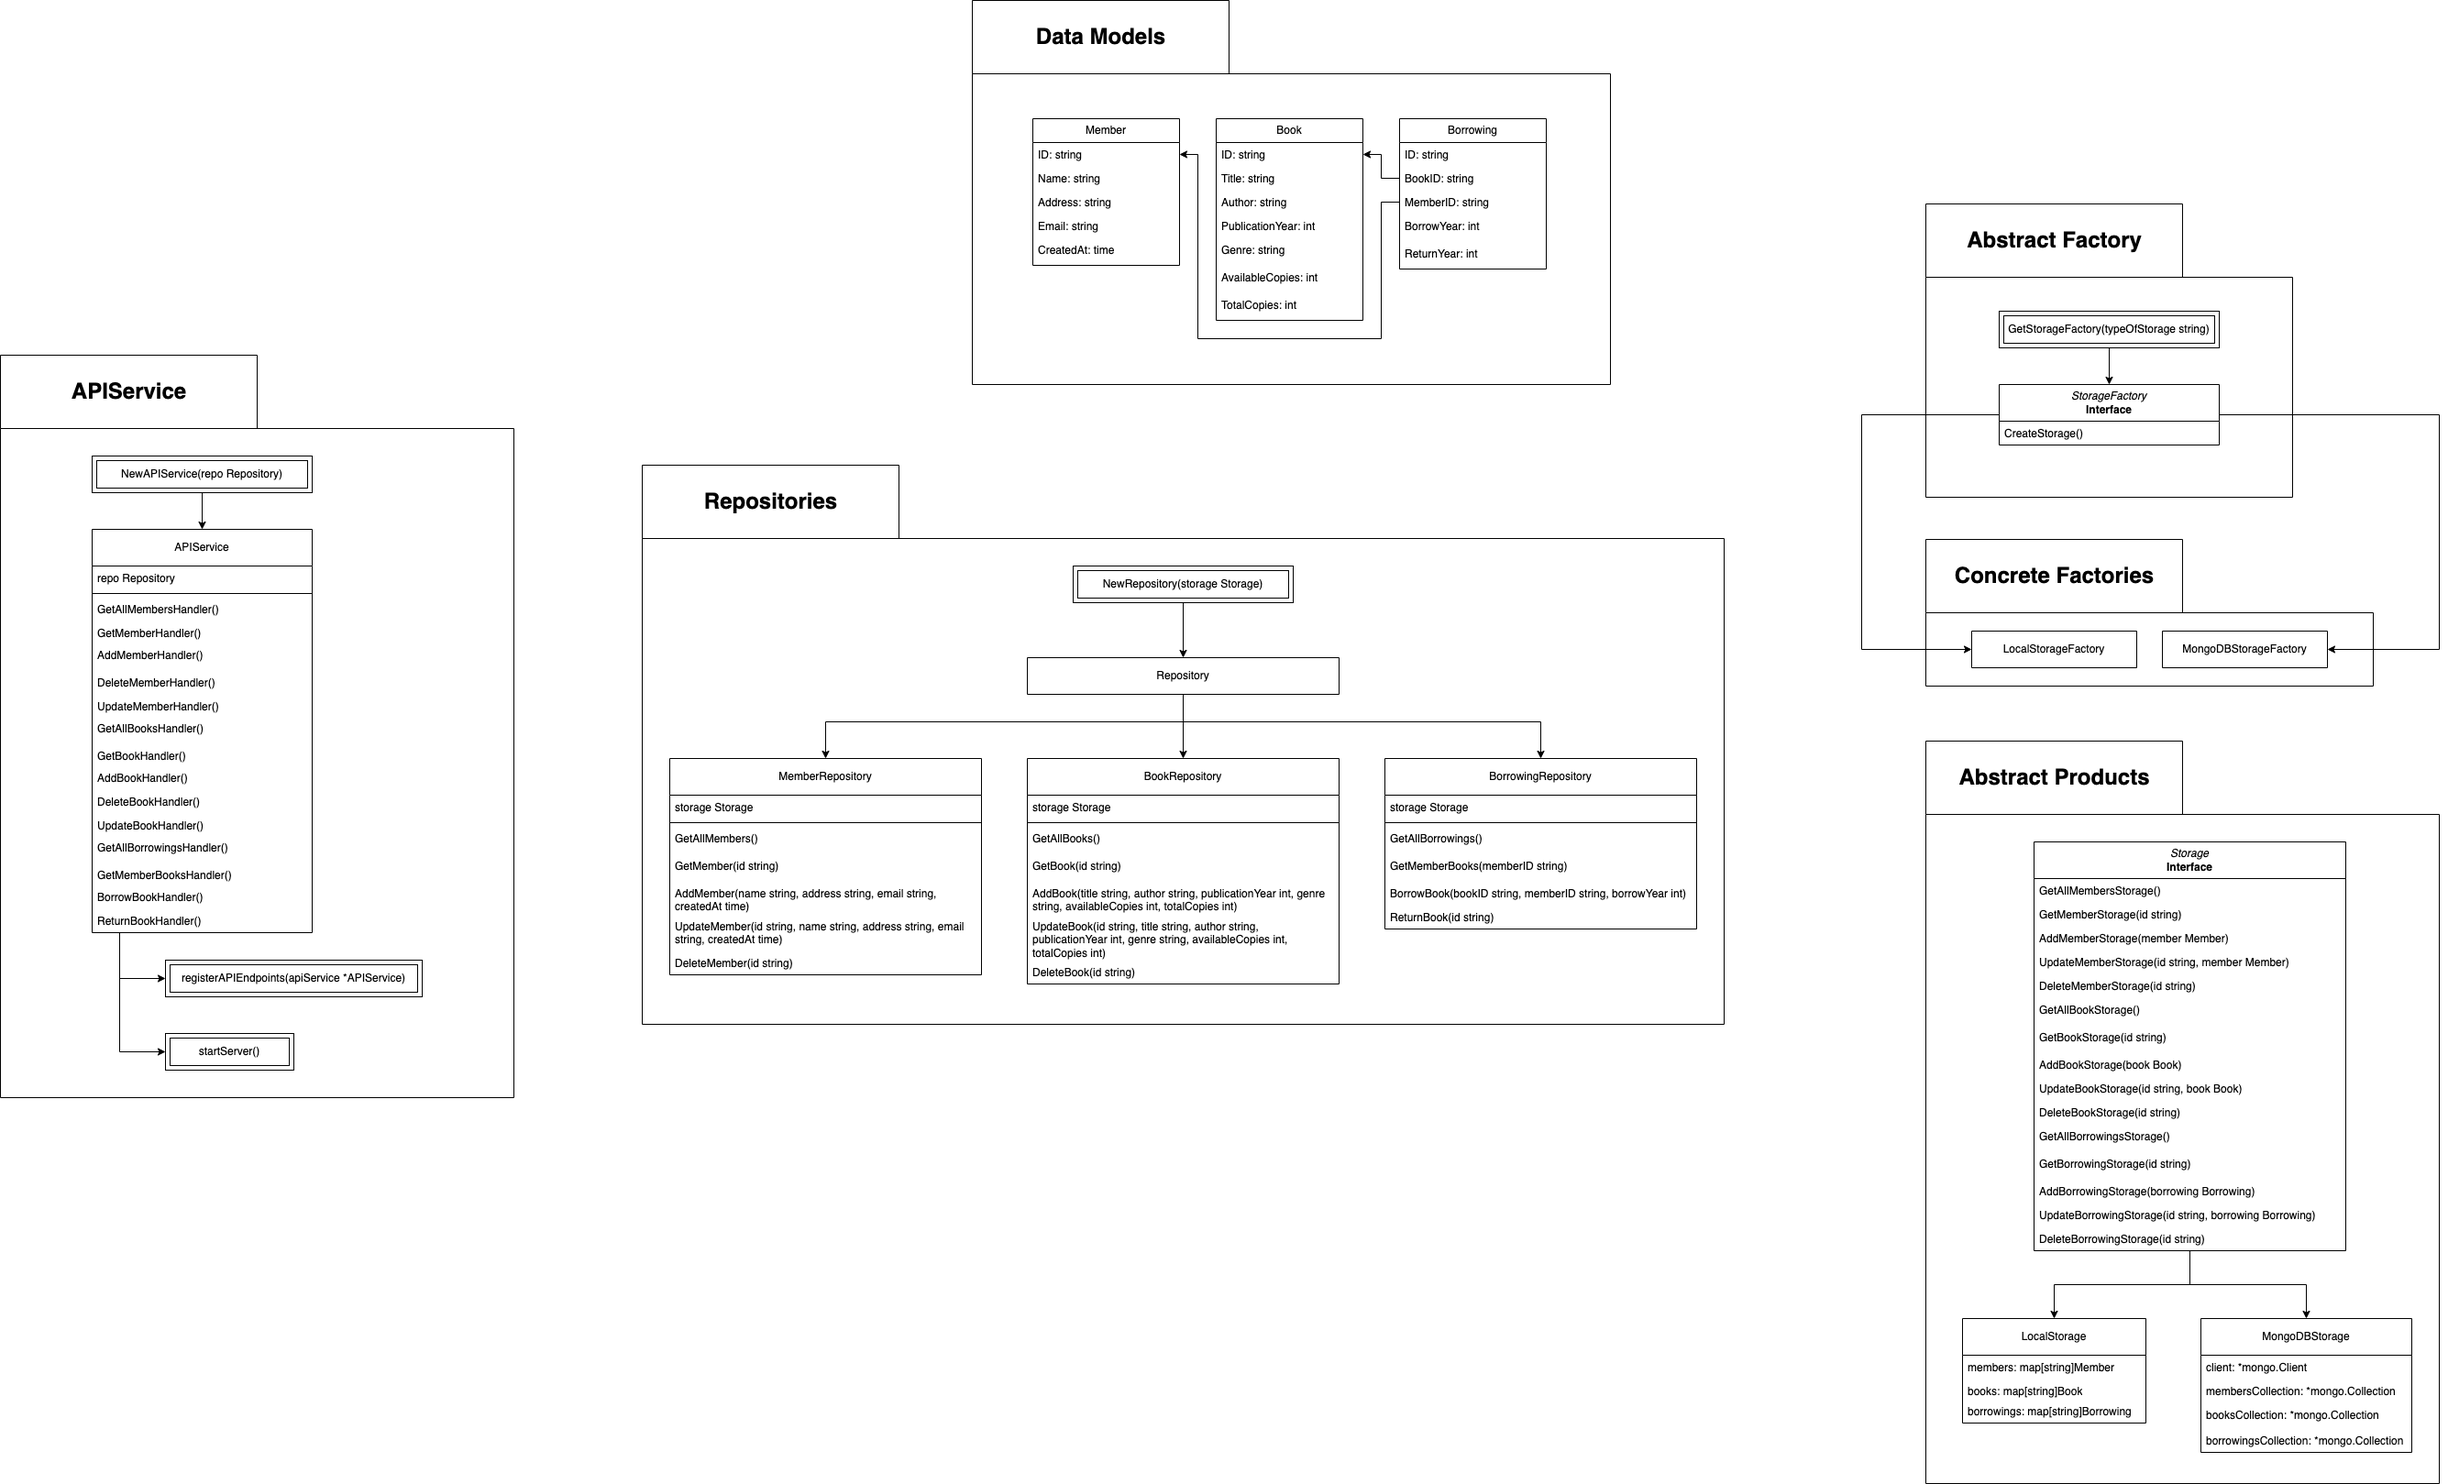
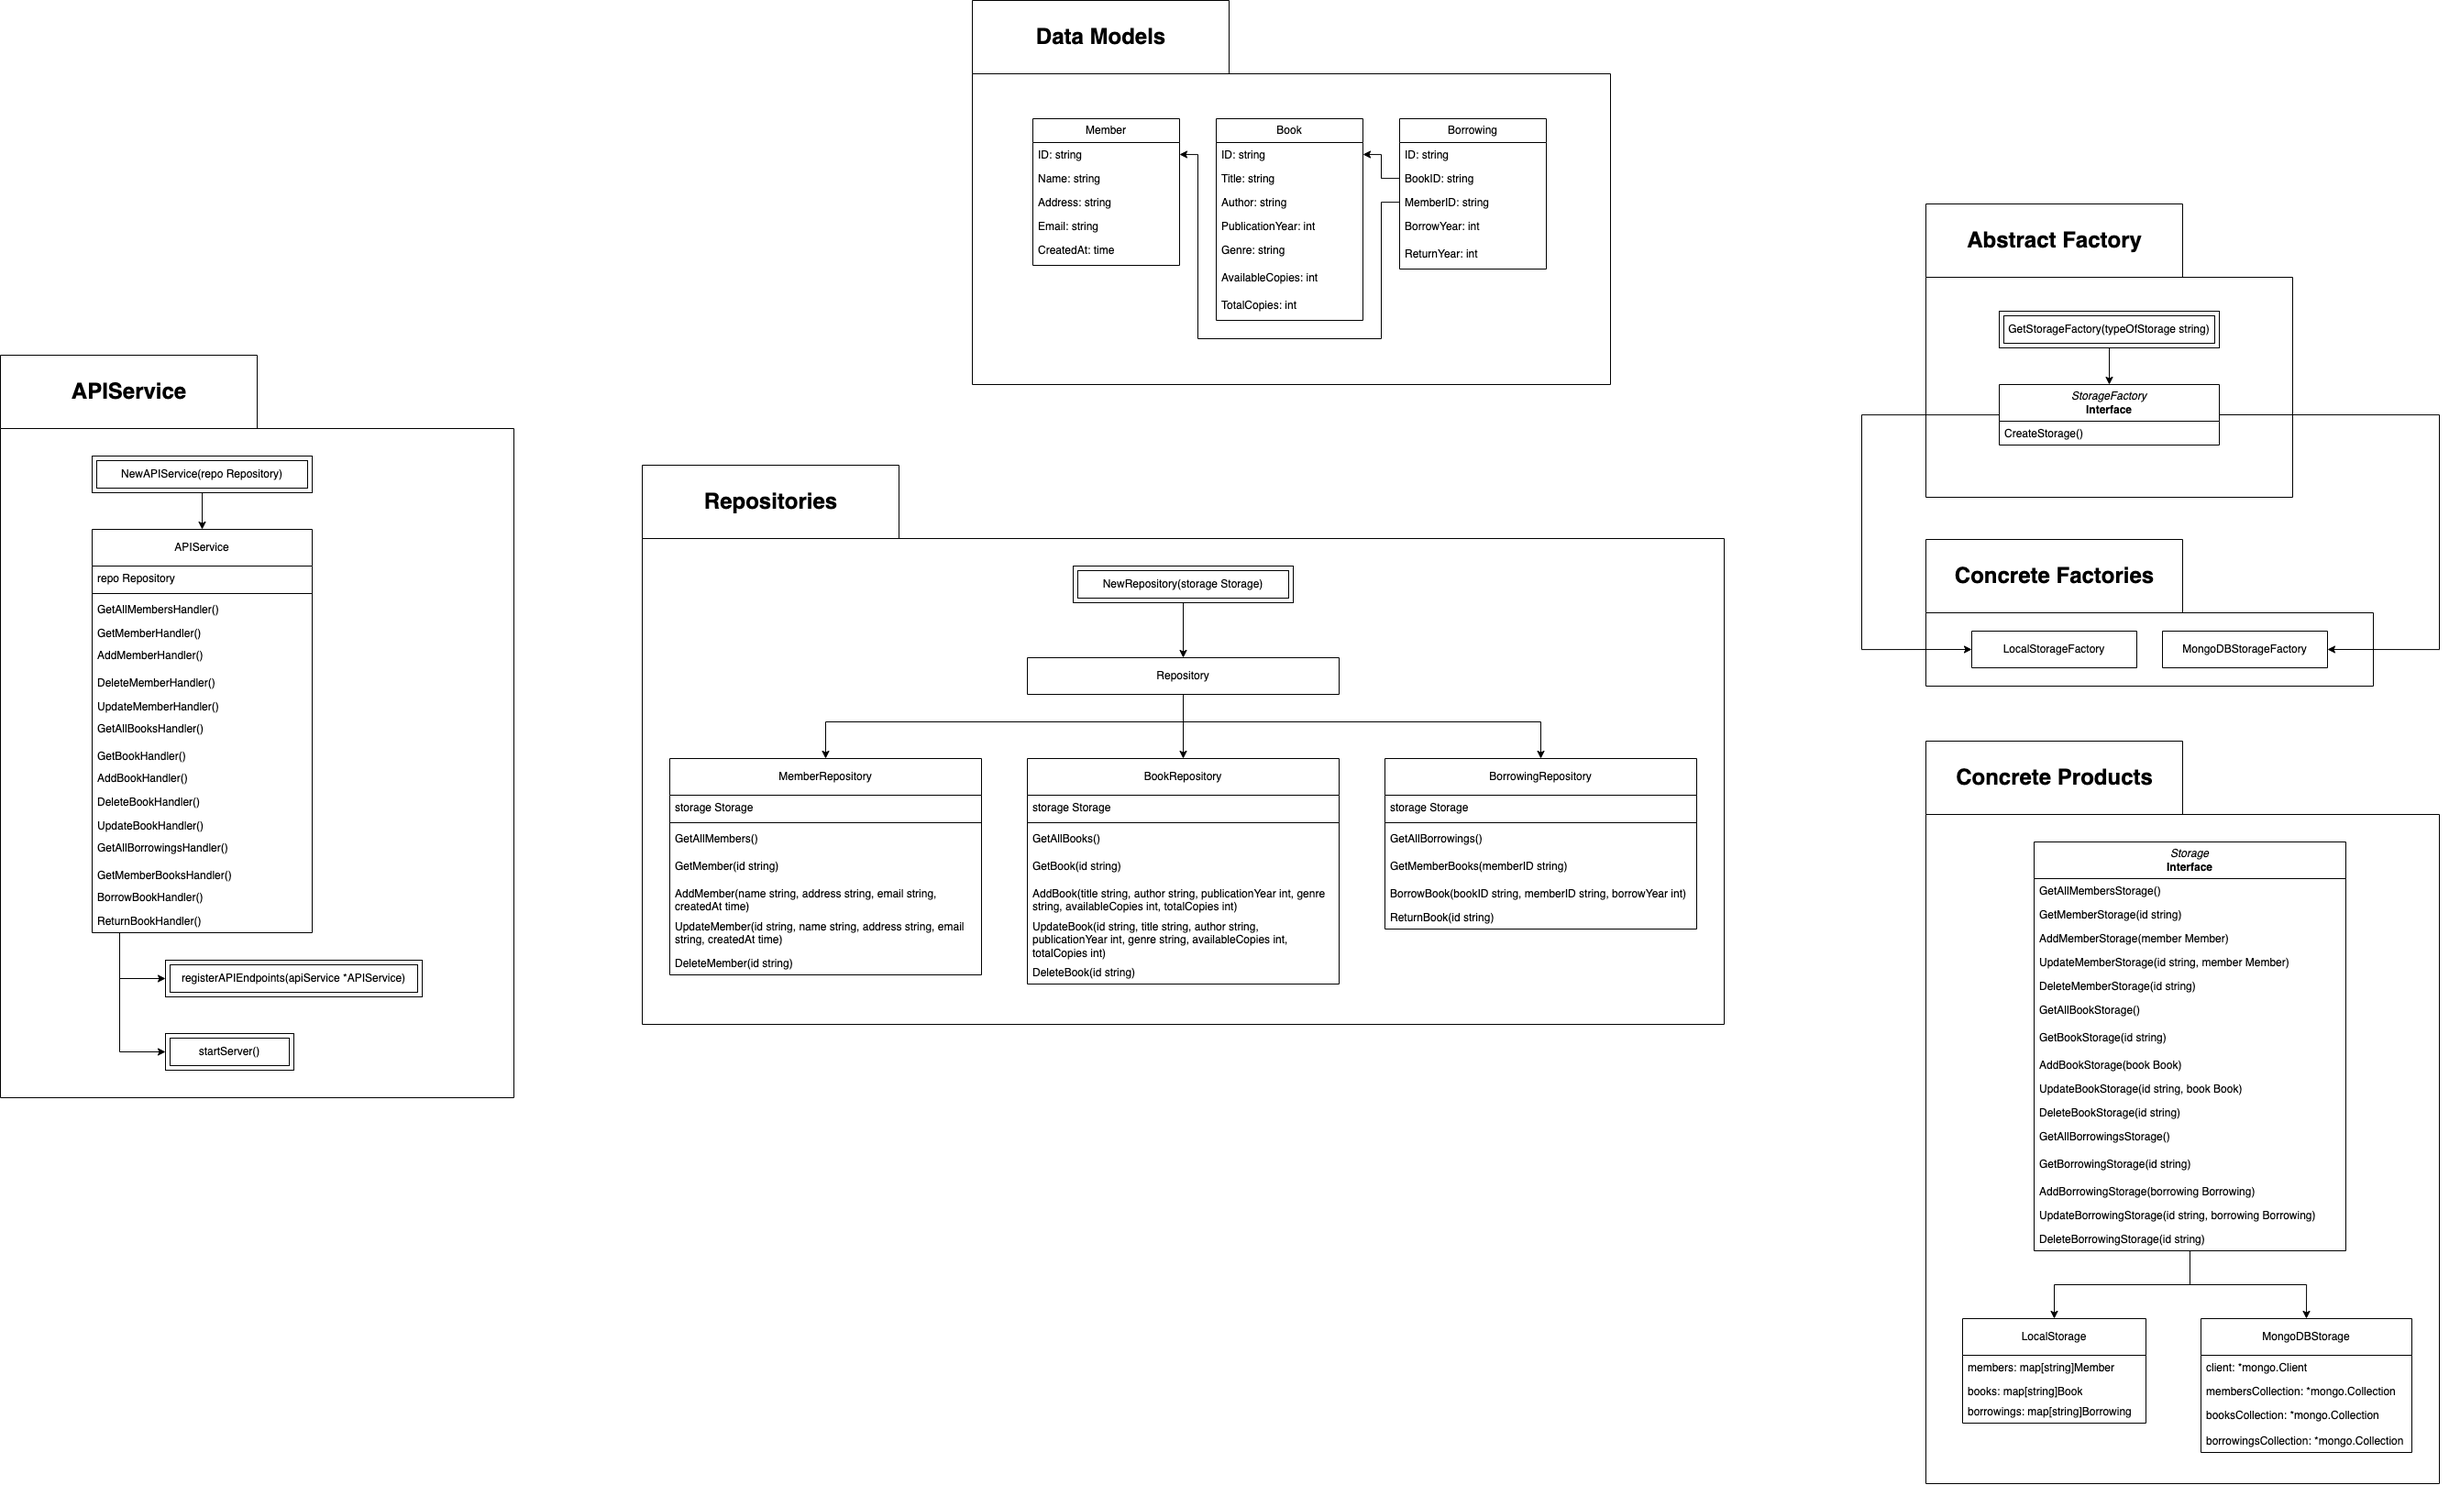
Update README.md v6

diff --git a/README.md b/README.md
@@ -48,7 +48,7 @@
 - **LocalStorageFactory:** Фабрика, которая отвечает за создание экземпляров LocalStorage. Является конкретной реализацией интерфейса StorageFactory.
 - **MongoDBStorageFactory:** Фабрика, которая отвечает за создание экземпляров MongoDBStorage. Является конкретной реализацией интерфейса StorageFactory. Эта фабрика более сложная, так как ей необходимо подключиться к базе данных MongoDB, создать коллекции для книг, читателей и заимствований, а затем вернуть новый объект MongoDBStorage.
 
-## 2.3. Абстрактные продукты:
+## 2.3. Конкретные продукты:
 - **Storage** Интерфейс, который декларирует CRUD-методы для работы с книгами (Book), читателями (Member) и заимствованиями (Borrowing).
   - **LocalStorage, MongoDBStorage:** Конкретные реализации интерфейса для хранения членов библиотеки, книг и заимствования книг локально и с помощью базы данных MongoDB соответственно.
 
@@ -115,24 +115,24 @@ BookRepository:
 
 ## 4.2. Методы (обработчики API-запросов):
 Member:
-- getAllMembersHandler(): использует метод getAllMembers. *GET /members*
-- getMemberHandler(): использует метод getMember. *GET /members/{memberId}*
-- addMemberHandler(): использует метод addMember. *POST /members*
-- deleteMemberHandler(): использует метод deleteMember. *DELETE /members/{memberId}*
-- updateMemberHandler(): использует метод updateMember. *PUT /members/{memberId}*
+- getAllMembersHandler(): использует метод GetAllMembers. *GET /members*
+- getMemberHandler(): использует метод GetMember. *GET /members/{memberId}*
+- addMemberHandler(): использует метод AddMember. *POST /members*
+- deleteMemberHandler(): использует метод DeleteMember. *DELETE /members/{memberId}*
+- updateMemberHandler(): использует метод UpdateMember. *PUT /members/{memberId}*
 
 Книги:
-- getAllBooksHandler(): использует метод getAllBooks. *GET /books*
-- getBookHandler(): использует метод getBook. *GET /books/{bookId}*
-- addBookHandler(): использует метод addBook. *POST /books*
-- deleteBookHandler(): использует метод deleteBook. *DELETE /books/{bookId}*
-- updateBookHandler(): использует метод updateBook. *PUT /books/{bookId}*
+- getAllBooksHandler(): использует метод GetAllBooks. *GET /books*
+- getBookHandler(): использует метод GetBook. *GET /books/{bookId}*
+- addBookHandler(): использует метод AddBook. *POST /books*
+- deleteBookHandler(): использует метод DeleteBook. *DELETE /books/{bookId}*
+- updateBookHandler(): использует метод UpdateBook. *PUT /books/{bookId}*
 
 Заимствования:
-- getAllBorrowingsHandler(): использует метод getMemberBooks. *GET /borrowings*
-- getMemberBooksHandler(): использует метод getMemberBooks. *GET /borrowings/{memberId}*
-- borrowBookHandler(): использует метод borrowBook. *POST /borrowings*
-- returnBookHandler(): использует метод returnBook. *PUT /borrowings/{borrowingId}*
+- getAllBorrowingsHandler(): использует метод GetAllBorrowings. *GET /borrowings*
+- getMemberBooksHandler(): использует метод GetMemberBooks. *GET /borrowings/{memberId}*
+- borrowBookHandler(): использует метод BorrowBook. *POST /borrowings*
+- returnBookHandler(): использует метод ReturnBook. *PUT /borrowings/{borrowingId}*
 
 ## 3.3. Конструктор:
 - NewAPIService(repo Repository): Создает новый экземпляр сервиса APIService, используя класс репозитория с определенным хранилищем. Реализация конструктора создает singleton, что означает, что в рамках приложения будет существовать только один экземпляр APIService.
